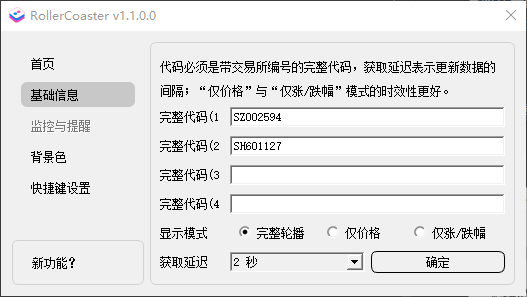
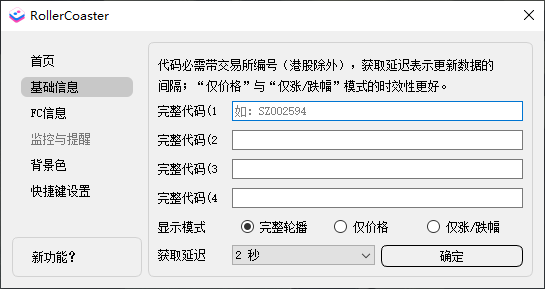
UPDATE:README.MD

diff --git a/README.md b/README.md
@@ -11,6 +11,8 @@ Monitor real-time price changes through the stock code and place it on the deskt
 - Use the stock code to monitor real-time price changes, listen for 4 numbers, and enter the following rules:
   - **`Note: The mainland exchange must enter complete, Shanghai Stock Exchange (SH), Shenzhen Stock Exchange (SZ), and Beijing Stock Exchange (BJ). For example: SZ002594`**
   - **`Note: The Hong Kong Stock Exchange does not need to add HK, just directly have a stock code`**
+- Use futures code to monitor real-time price changes, listen for 4 numbers, and enter the following rules:
+  - **`Note: Only internal futures are supported at present.`**
 - Listening interval, minimum 2 seconds, default 3 seconds;
 - If it rises, the font is `red`. If it falls, the font is `green` (can be reversed);
 - After closing (16:00), you do not get the price. Before opening, check the time every 1 minute to get the price at the set time (9:00). [Note: This depends heavily on the computer local time, please make sure the time is accurate]
@@ -31,9 +33,15 @@ Monitor real-time price changes through the stock code and place it on the deskt
 - Added a new reminder for watching the disk (need to be greater than or equal to `v1.1.0.0` version), you can choose to turn on or off
 - Added display mode selection (need to be greater than or equal to `v1.1.0.0` version), you can choose `full carousel, only price, only increase or decrease, where `` only price, only increase or decrease` has better timeliness
 
+### What problems may be encountered?
+- Show the word "错误":
+  - Solution: Add `stock.xueqiu.com`,`finance.pae.baidu.com`,`hq.sinajs.cn` to the proxy whitelist to prevent it from traversing proxy traffic
+- Windows 11 does not display:
+  - There is no solution yet. The reason is that after the 22H2 version of Windows 11, Microsoft updated the taskbar implementation method, which caused the original implementation method to be incompatible.
+
 ### Some screenshots
 
-1. Run the display effect
+1. Run display effect (left stock and right period)
 
     ![01.png](./readme/01.png)
 
@@ -41,19 +49,23 @@ Monitor real-time price changes through the stock code and place it on the deskt
 
     ![02.png](./readme/02.png)
 
-3. Monitoring and reminder settings
+3. FC code settings
+    
+    ![07.png](./readme/07.png)
+
+4. Monitoring and reminder settings (currently only stocks are supported)
 
     ![06.png](./readme/06.png)
 
-4. Background color setting
+5. Background color setting
 
     ![03.png](./readme/03.png)
 
-5. Shortcut key settings
+6. Shortcut key settings
 
     ![04.png](./readme/04.png)
 
-6. New features?
+7. New features?
 
    ![05.png](./readme/05.png)
 

diff --git a/README_zh.md b/README_zh.md
@@ -1,4 +1,4 @@
-# RollerCoaster
+# 过山车
 
 ### 这是什么？
 
@@ -9,6 +9,8 @@
 - 用股票代码，监听实时价格变化，监听数量4个,输入规则如下：
   - **`注意：内地交易所必须输入完整，上证(SH)、深证(SZ)、北证(BJ)。如：SZ002594`**
   - **`注意：港交所则不需要加 HK，直接股票代码就行，如：01810`**
+- 用期货代码，监听实时价格变化，监听数量4个,输入规则如下：
+  - **`注意：当前只支持内盘期货`**
 - 监听间隔，最短2秒，默认3秒；
 - 若涨，则字体`红色`。若跌，则字体`绿色`(可取反)；
 - 收盘后（16:00）不在获取价格，开盘前，每1分钟检查一次时间，到设定时间（9:00）获取价格。【注意：此项严重依赖电脑本地时间，请确保时间准确】
@@ -29,10 +31,16 @@
 - 新增盯盘提醒（需要大于等于`v1.1.0.0`版本），可选择开启或关闭
 - 新增显示模式选择（需要大于等于`v1.1.0.0`版本），可选择`完整轮播，仅价格，仅涨跌幅度`,其中`仅价格，仅涨跌幅度`时效性更好
 
+### 可能遇到的问题？
+
+- 显示“错误”字样：
+    - 解决办法：将`stock.xueqiu.com`,`finance.pae.baidu.com`,`hq.sinajs.cn`加入到代理白名单，使其不要走代理流量
+- Windows 11 不显示：
+    - 目前暂无解决办法。原因是 Windows11 22H2 版本后，微软对任务栏实现方式进行了更新，导致原本实现方式不兼容。
 
 ### 部分截图
 
-1. 运行显示效果
+1. 运行显示效果（左股右期）
 
    ![01.png](./readme/01.png)
 
@@ -40,19 +48,23 @@
 
    ![02.png](./readme/02.png)
 
-3. 监控与提醒设置
+3. FC代码设置
+
+   ![07.png](./readme/07.png)
+
+4. 监控与提醒设置（当前仅支持股）
 
    ![06.png](./readme/06.png)
 
-4. 背景色设置
+5. 背景色设置
 
    ![03.png](./readme/03.png)
 
-5. 快捷键设置
+6. 快捷键设置
 
    ![04.png](./readme/04.png)
 
-6. 新功能？
+7. 新功能？
 
    ![05.png](./readme/05.png)
 
